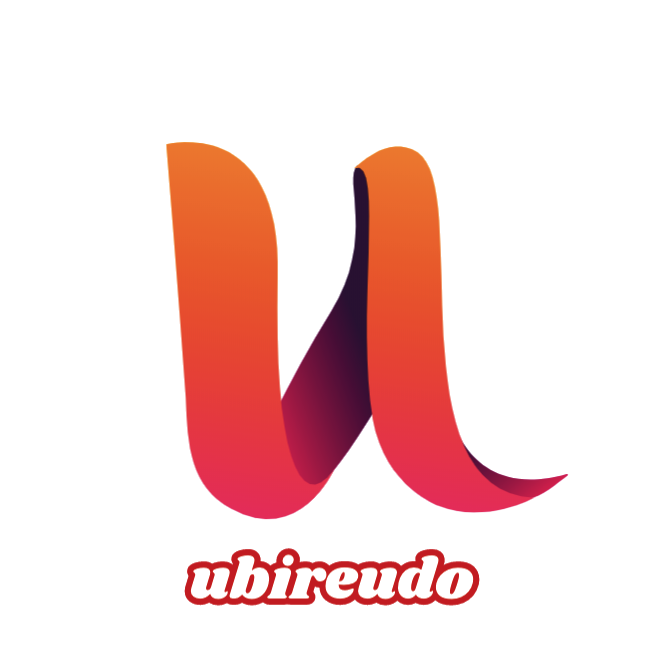
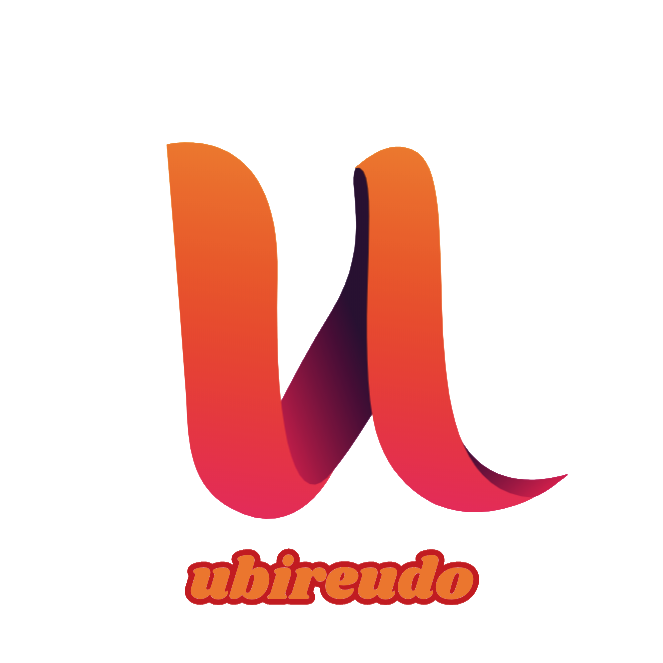
ok

Changed region(s): [[0.2715, 0.8145, 0.724, 0.905]]

diff --git a/src/LoginScreen.js b/src/LoginScreen.js
@@ -9,8 +9,9 @@ import './css/Global.css'
 import TeamManager from './TeamManager.js';
 import NameManager from './NameManager.js';
 
-import ubireudo from "./images/google_logo.png"
-import logo from "./images/ubireudo_tranparente_tudo.png"
+//import googleIcon from "./images/google_logo.png";
+import googleIconWhite from "./images/google_logo_white.png";
+import logoUbireudo from "./images/ubireudo_tranparente_tudo.png";
 
 class LoginScreen extends React.Component {
 
@@ -80,11 +81,11 @@ class LoginScreen extends React.Component {
 
         <div id="login">
           <main>
-            <img alt="Logo" src={logo}></img>
+            <img alt="Logo" src={logoUbireudo}></img>
             <button onClick={this.handleSubmit}>
               <div id="img-text">
                 <div>
-                  <img alt="Google" src={ubireudo}></img>
+                  <img alt="Google" src={googleIconWhite}></img>
                 </div>
                 <div>
                   <strong>Login com Google</strong>

diff --git a/src/css/Login.css b/src/css/Login.css
@@ -19,16 +19,16 @@
 }
 
 #login button {
-    background-color: #222233;
+    background-color: orangered;
     border: 2px solid orangered;
 }
 
 #login button:hover {
-    background-color:#11111a;
+    background-color:#121212;
 }
 
 #login strong {
-    color: orangered;
+    color: #ffffff;
 }
 
 #img-text {

diff --git a/src/css/Global.css b/src/css/Global.css
@@ -10,7 +10,8 @@
 
 html, body, #root {
     height: 100%;
-    background-color: #000000;
+    background-color: #121212;
+    font-family: 'Ubuntu', sans-serif;
 }
 
 body {
@@ -55,6 +56,10 @@ button {
 
 button:hover {
     background:orangered;
+}
+
+button:disabled {
+    background: silver;
 }
 
 img {
